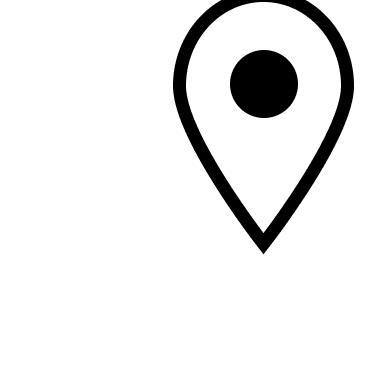
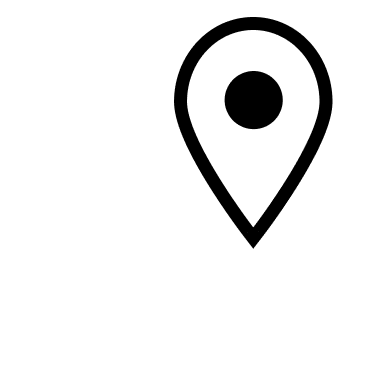
fix: dronepedia application img boxes

Changed region(s): [[0.4319, 0.0, 0.9254, 0.6478]]

diff --git a/src/app/products/dronepedia/applications/page.js b/src/app/products/dronepedia/applications/page.js
@@ -23,7 +23,7 @@ export default function ApplicationsPage() {
 
           <div className="app-card">
             {/* eslint-disable-next-line @next/next/no-img-element */}
-            <img src="/img/land mapped.png" style={{ width: '100%', height: 'auto', objectFit: 'contain', objectPosition: 'center' }} alt="land mapping" className="app-img-box" />
+            <img src="/img/land mapped.png" style={{ width: '100%', height: '220px', objectFit: 'contain', objectPosition: 'center' }} alt="land mapping" className="app-img-box" />
             <div className="app-title-box">
               <h3>Land Mapping</h3>
             </div>
